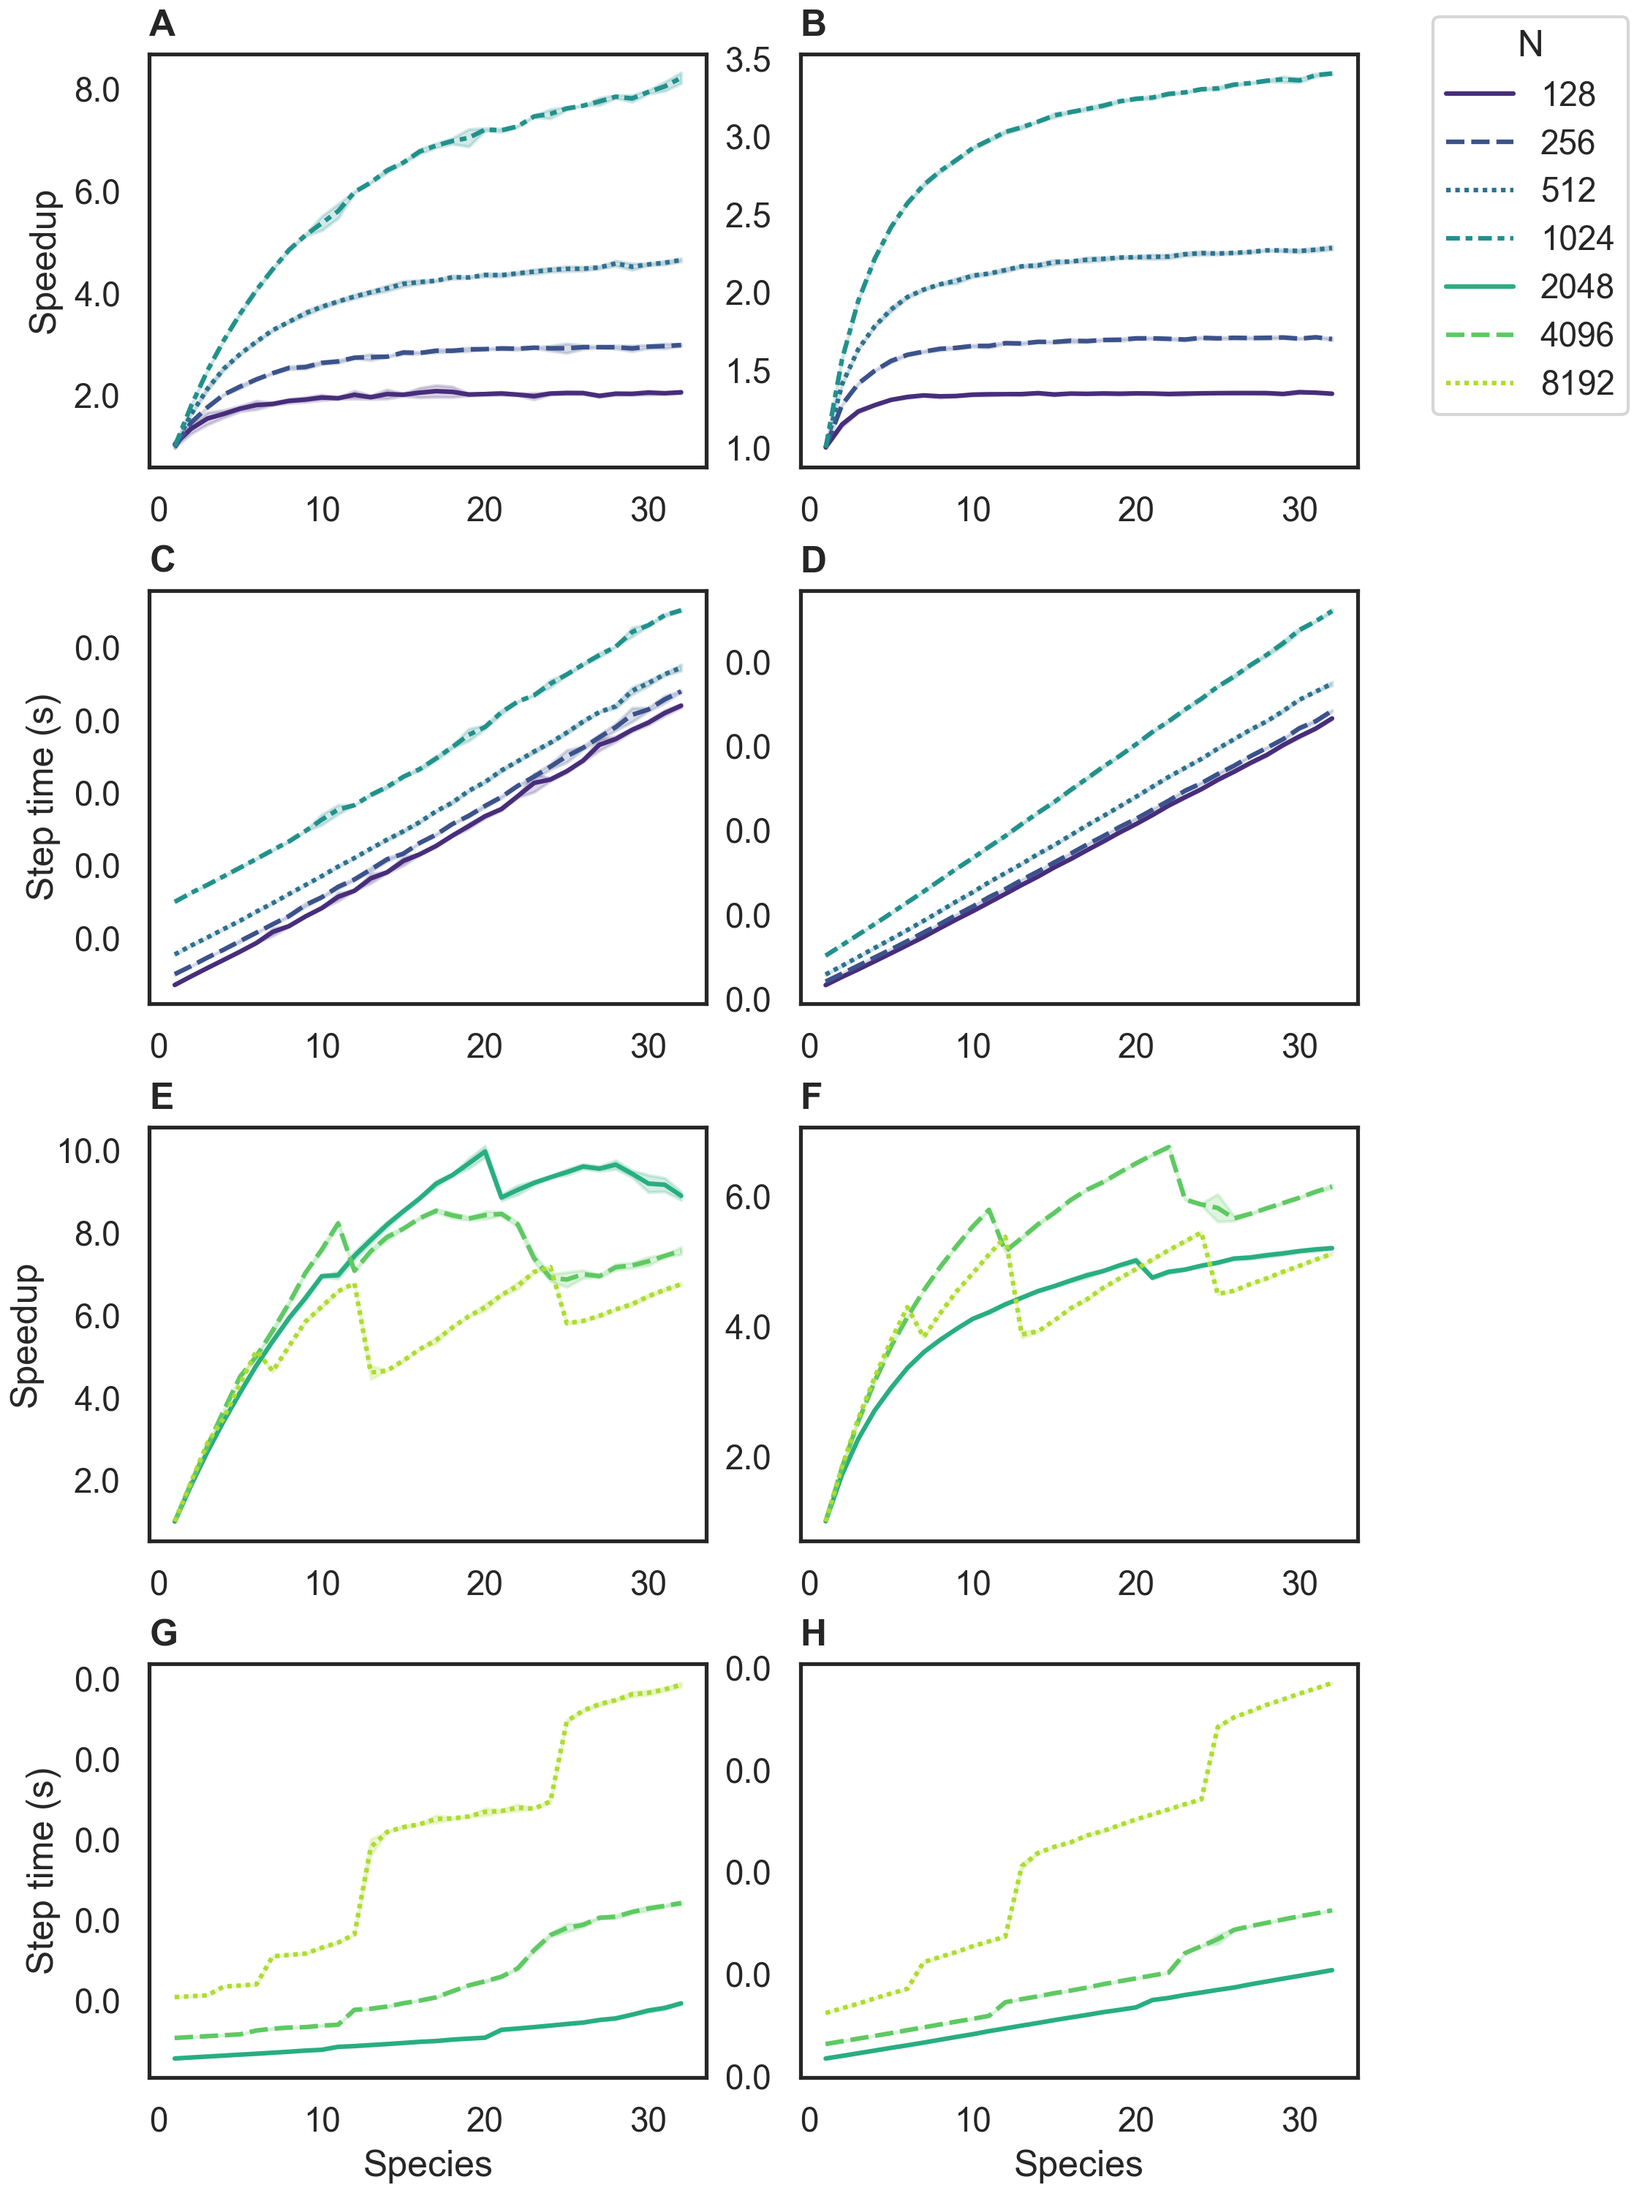
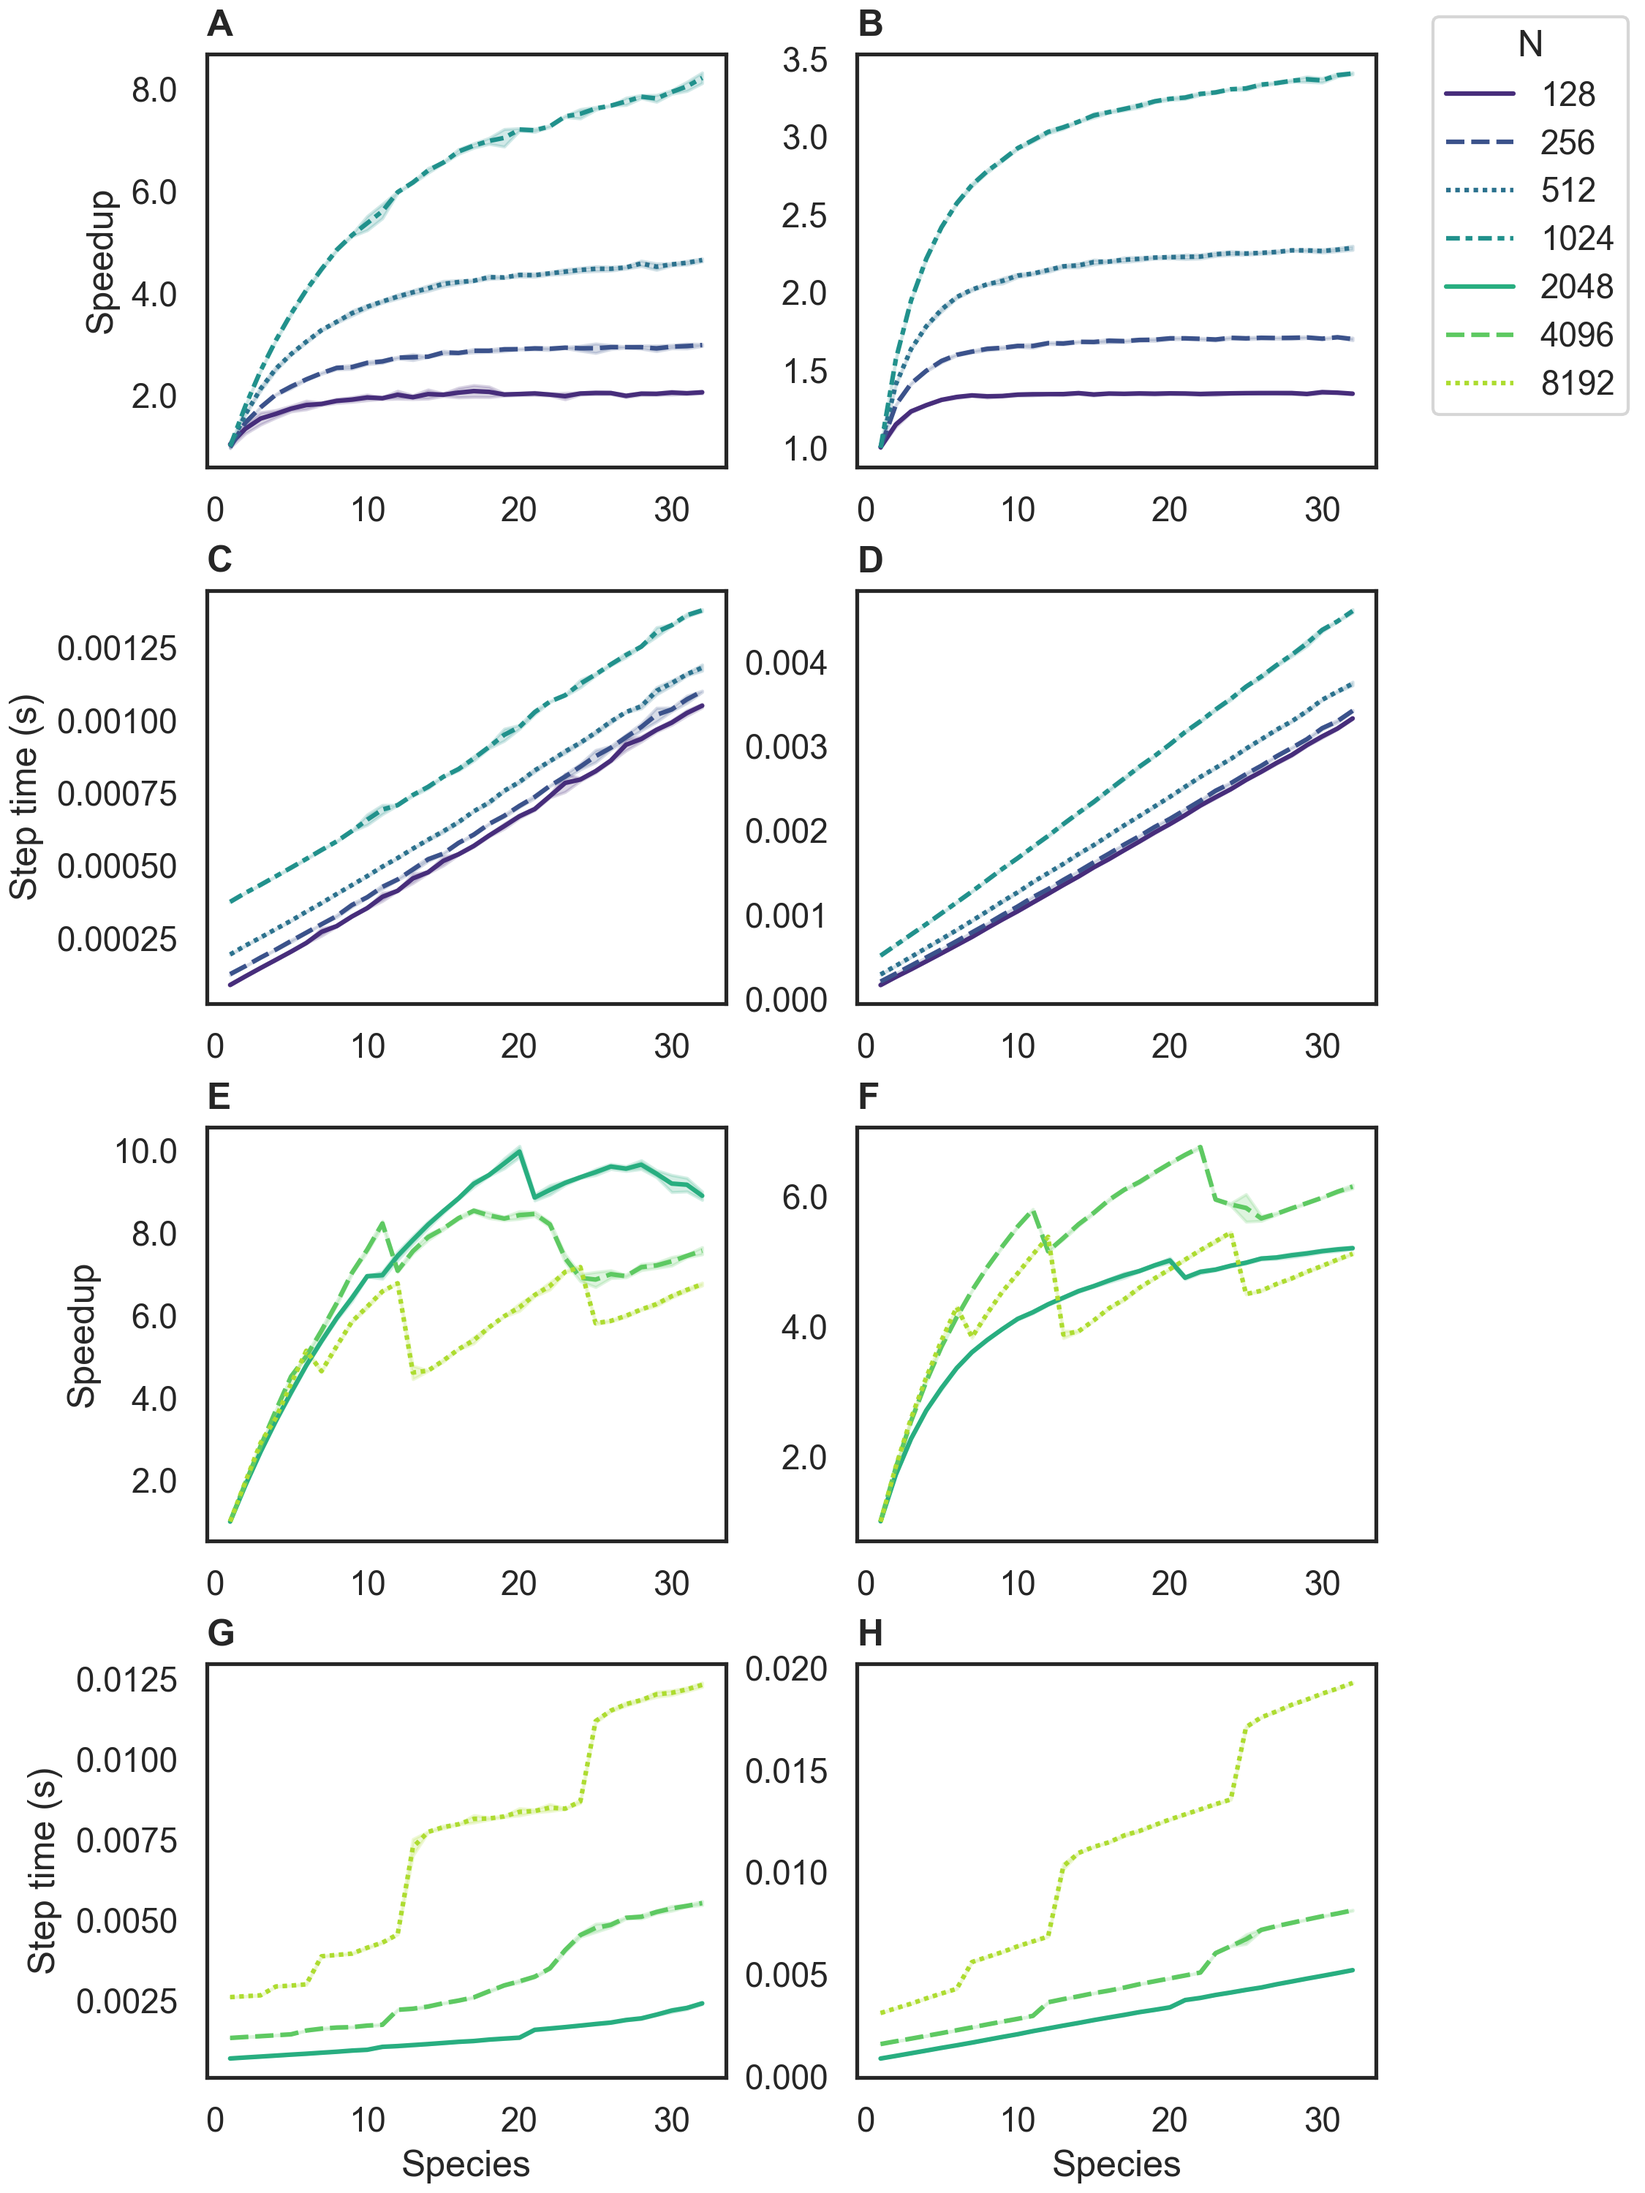
quick fix to legend axis

diff --git a/plot_publication.py b/plot_publication.py
@@ -151,7 +151,6 @@ def main():
     plot = sns.lineplot(x='num_species', y='s_step_mean', hue='pop_size', style='pop_size',data=df, palette=custom_palette, ax=ax['p3'], ci="sd")
     plot.set(xlabel='', ylabel='Step time (s)')
     # set tick formatting, title and hide legend
-    ax['p3'].yaxis.set_major_formatter(FormatStrFormatter('%0.1f'))
     ax['p3'].set_title(label='C', loc='left', fontweight="bold")
     ax['p3'].legend().set_visible(False)
     
@@ -177,7 +176,6 @@ def main():
     plot = sns.lineplot(x='num_species', y='s_step_mean', hue='pop_size', style='pop_size',data=df, palette=custom_palette, ax=ax['p4'], ci="sd")
     plot.set(xlabel='', ylabel='')
     # set tick formatting, title and hide legend
-    ax['p4'].yaxis.set_major_formatter(FormatStrFormatter('%0.1f'))
     ax['p4'].set_title(label='D', loc='left', fontweight="bold")
     ax['p4'].legend().set_visible(False)
     
@@ -203,7 +201,6 @@ def main():
     plot = sns.lineplot(x='num_species', y='s_step_mean', hue='pop_size', style='pop_size',data=df, palette=custom_palette, ax=ax['p7'], ci="sd")
     plot.set(xlabel='Species', ylabel='Step time (s)')
     # set tick formatting, title and hide legend
-    ax['p7'].yaxis.set_major_formatter(FormatStrFormatter('%0.1f'))
     ax['p7'].set_title(label='G', loc='left', fontweight="bold")
     ax['p7'].legend().set_visible(False)
     
@@ -229,7 +226,6 @@ def main():
     plot = sns.lineplot(x='num_species', y='s_step_mean', hue='pop_size', style='pop_size',data=df, palette=custom_palette, ax=ax['p8'], ci="sd")
     plot.set(xlabel='Species', ylabel='')
     # set tick formatting, title and hide legend
-    ax['p8'].yaxis.set_major_formatter(FormatStrFormatter('%0.1f'))
     ax['p8'].set_title(label='H', loc='left', fontweight="bold")
     ax['p8'].legend().set_visible(False)
     
